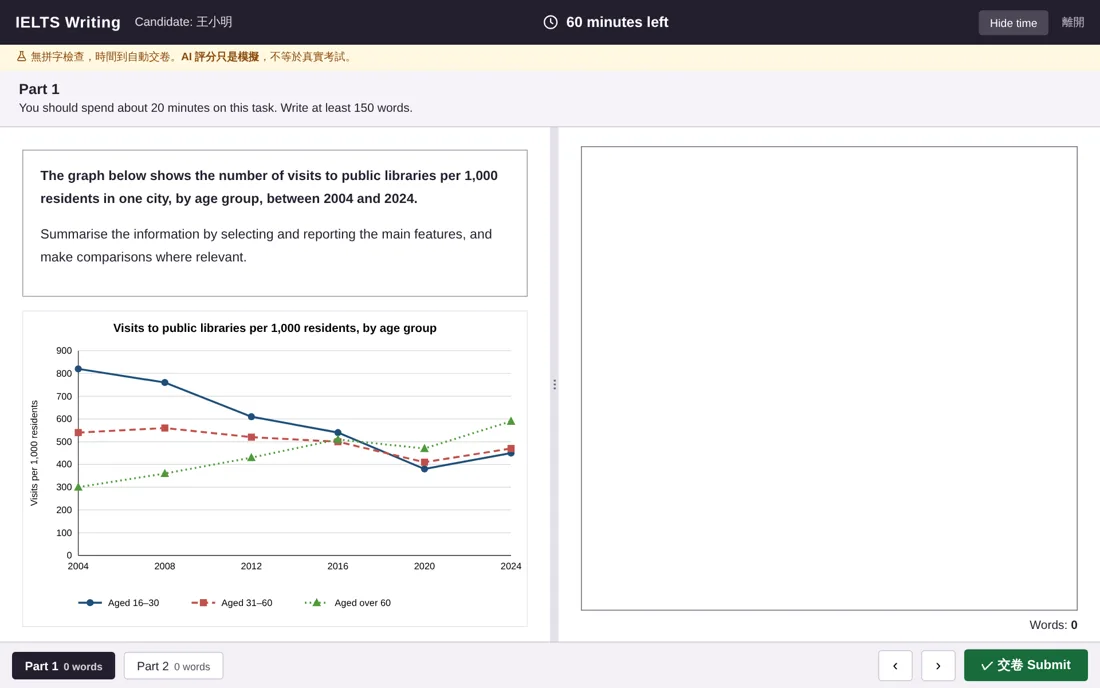
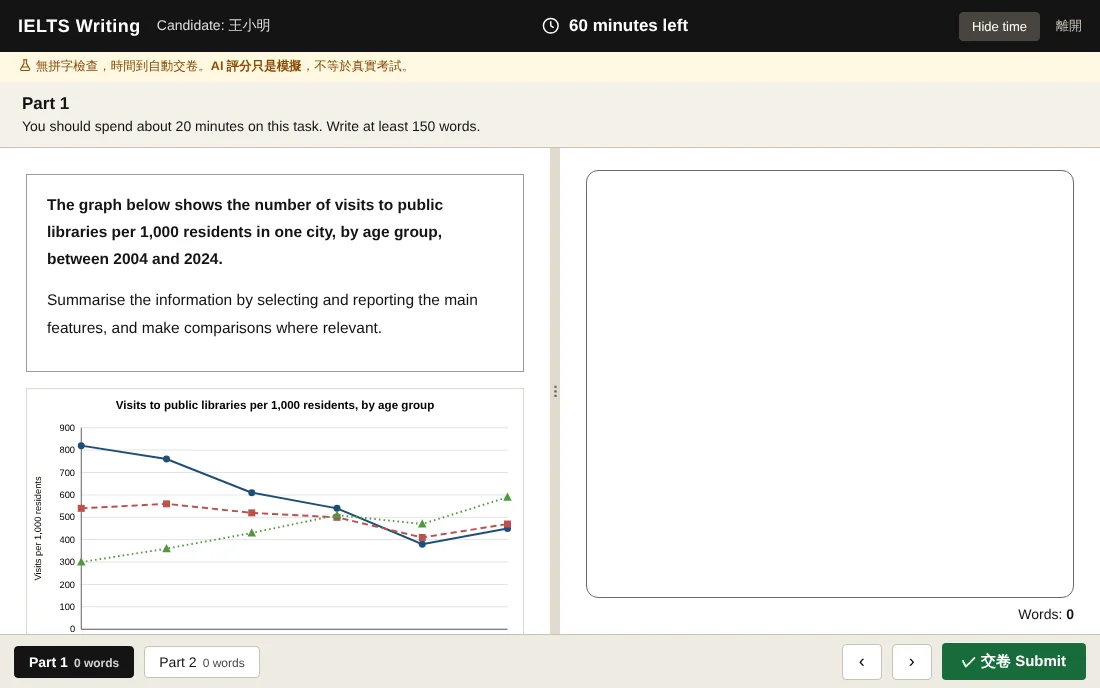
官網的系統預覽圖換成新外觀
學習系統改成官網風格後，官網「學員專屬 AI 線上學習系統」那區的 23 張系統畫面還是舊的紫色版，
使用者要求一起換。用示範帳號重新截圖，檔名、尺寸與每一科放的畫面都和原本一樣。

Claude-Session: https://claude.ai/code/session_01RuXmBZNKXubxVe9itenpYU

diff --git a/school_site.py b/school_site.py
@@ -153,7 +153,7 @@ for _pg in PROGRAMS.values():
                        for f in _pg["features"]]
 
 # 學習系統的實際畫面（2026-11 使用者要求「介紹學習系統的地方要放系統預覽圖」）：用示範帳號從系統本身截圖，
-# 圖在 static/images/site/system/。kind：phone 手機畫面、desk 電腦畫面；exams：哪些科目的頁面顯示（主頁面全部顯示）
+# 圖在 static/images/site/system/（2026-11 系統改成官網風格後全部重截；手機圖 420×798、電腦圖 1100×688）。kind：phone 手機畫面、desk 電腦畫面；exams：哪些科目的頁面顯示（主頁面全部顯示）
 SYSTEM_SHOTS = [
     # 每一科放自己那一科的系統畫面（2026-11 使用者要求「每一科的預覽圖都要不一樣、要符合系統」）；
     # exams 是要出現在哪些頁面，main＝主頁面（沒帶 ?exam=），主頁面每科挑一張
